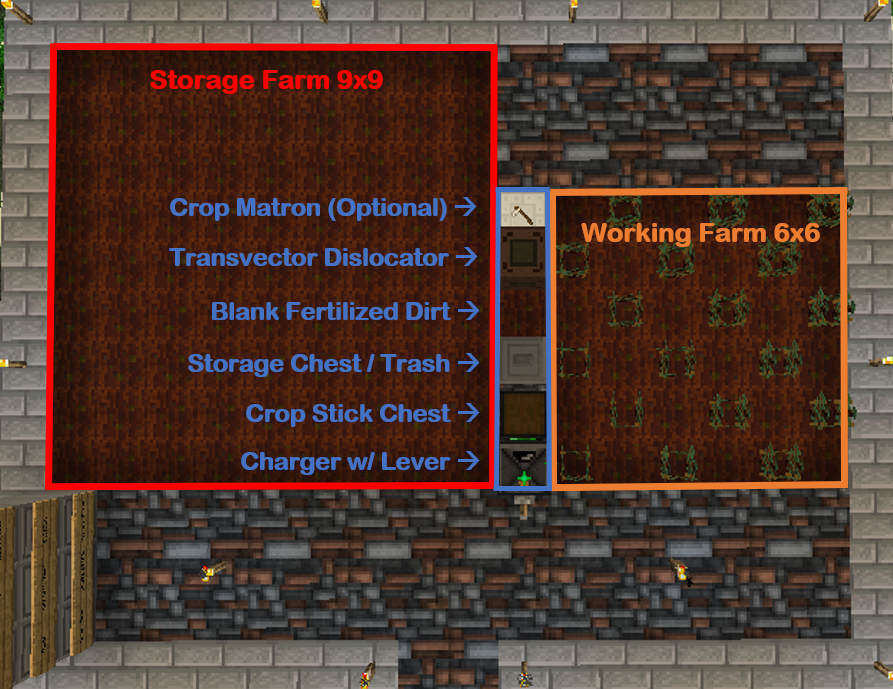
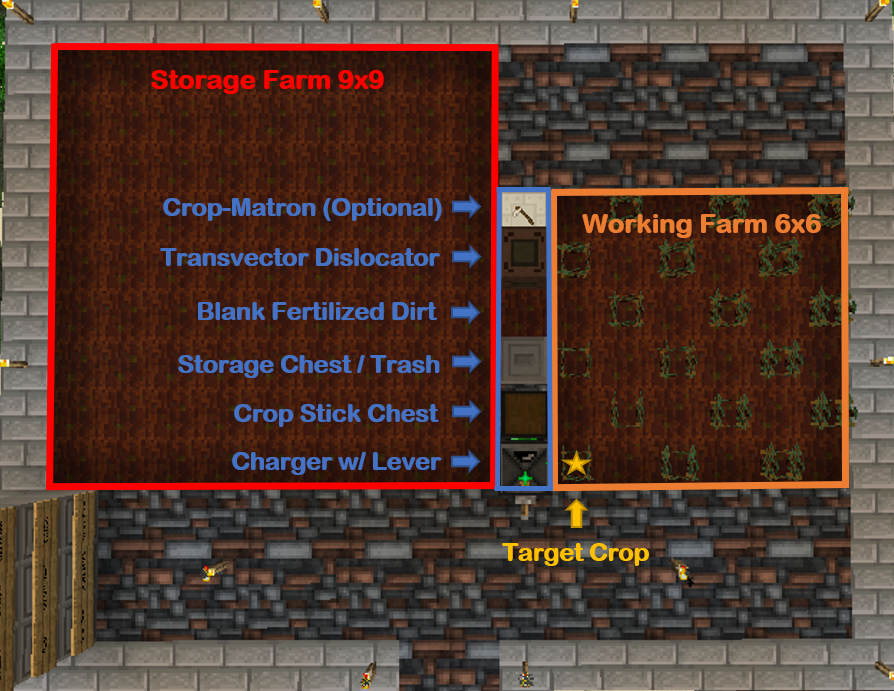
Commit

diff --git a/README.md b/README.md
@@ -1,10 +1,10 @@
 # Introduction
 
-This Open computers (OC) Script will automatically tier up, stat up, and spread (duplicate) crops for you. Open Computers is a very powerful yet complicated mod using custom scripts written in lua, but fear not. I have made everything here as straight forward as possible to help you get your crop bot running in no time.
+This Open computers (OC) Script will automatically tier up, stat up, and spread (duplicate) crops for you. Open Computers is a very powerful yet complicated mod using custom scripts written in lua, but fear not. I have made everything here as straight forward as possible to help you get your crop bot running in no time. (NOTE: The Geolyzer was broken upon the release of version 2.1.2.1, this script will not work until switching to a older or more recent version)
 
 # Bare Minimum Components
 
-Obtaining these components will require access to EV circuits and epoxid. This is because you need an internet card to pull the scripts from GitHub. Do not waste time trying to write it all yourself. The CPU and Graphics Card can be replaced by a single APU if you feel so inclined. Both inventory upgrades are necessary.
+Obtaining these components will require access to EV circuits and epoxid (late HV). This is because you need an internet card to pull the scripts from GitHub. Do not waste time trying to write it all yourself. The CPU and Graphics Card can be replaced by a single APU if you feel so inclined. Both inventory upgrades are necessary.
 
 - OC Electronics Assembler
 - OC Charger
@@ -23,6 +23,8 @@ Obtaining these components will require access to EV circuits and epoxid. This i
 - Disk Drive
 - Internet Card
 - OpenOS (Operating System)
+
+You will also need a Transvector Binder and Transvector Dislocator which requires some progression in Thaumcraft. However, it is not too deep and completely doable if you are already able to make EV circuits and epoxid. Transvector Dislocator can be found under "Thaumic Tinkerer" and requires the following prerequisites on the same tab: Transvector Interface and Smokey Quartz. You will also need to complete research on Mirror Magic under "Artifice." For more information, visit the Thaumcraft Research Cheatsheet at https://gtnh.miraheze.org/wiki/Thaumcraft_Research_Cheatsheet.
 
 # Building the Robot
 
@@ -55,13 +57,13 @@ First off, it is recommended to set everything up in a Jungle or Swamp biome at 
 
 ![setup for crossbreeding](media/Farm_Layout.png)
 
-First note the orientation of the robot sitting atop the OC charger. It must face up towards the crop stick chest. If the crop stick chest is ever empty, the robot will run into errors and the script will break. In the image, I have a trash can on the other side of the crop stick chest because I currently do not want any drops beyond the target crop, but this can be replaced with another chest if need be. The blank fertilized dirt is for the transvector dislocator which should be facing it. You can tell which direction the transvector dislocator is facing by the side that is animated. The last spot is for a crop-matron which is optional and one y-level lower than the rest of the blocks. It is just to hydrate most of the crops so everything runs a little faster.
+First note the orientation of the robot sitting atop the OC charger. It must face up towards the crop stick chest. If the crop stick chest is ever empty, the robot will run into errors and the script will crash. In the image, I have a trash can on the other side of the crop stick chest because I do not want any drops beyond the target crop, but this can be replaced with another chest if need be. The blank fertilized dirt is for the transvector dislocator which should be facing it. You can tell which direction the transvector dislocator is facing by the side that is animated. The last spot is for a crop-matron which is optional and one y-level lower than the rest of the blocks. It is just to hydrate most of the crops so everything runs a little faster.
 
-The starting crops must be placed manually in the checkerboard pattern seen in the photo. This layout goes for all three programs. If you cannot fill the entire checkerboard to start, the absolute minimum required is two (one as the target crop and the other next to it for crossbreeding). Do not place empty crop sticks to fill the rest of the checkerboard. The target crop is used by autoStat and autoSpread to identify the crop you want to stat-up or spread to the storage farm.
+The starting crops must be placed manually in the checkerboard pattern seen in the photo. This layout goes for all three programs. If you cannot fill the entire checkerboard to start, the absolute minimum required is two (one as the target crop and the other next to it for crossbreeding). It is not necessary to place empty crop sticks to fill the rest of the checkerboard. The target crop is used by autoStat and autoSpread to identify the crop you want to stat-up or spread to the storage farm.
 
 # Running the Programs
 
-The first program is autoTier. This will automatically tier up your crops, terminating once the max breeding round is reached (configurable) or the storge farm is full. A storage chest is recommended for this program. Note that unrecognized crops will be moved to the storage farm first before replacing any of the lower tier crops in the working farm. Statting-up the crops before increasing to the next tier is an option in the config. To run, simply enter:
+The first program is autoTier. This will automatically tier up your crops, terminating once the max breeding round is reached (configurable) or the storge farm is full. A storage chest is recommended for this program. Note that unrecognized crops will be moved to the storage farm first before replacing any of the lower tier crops in the working farm. Statting-up crops before increasing to the next tier is an option in the config. To run, simply enter:
 
     autoTier
 
@@ -91,22 +93,21 @@ To uninstall all of the files from this repo, enter
 
     uninstall
 
-To run without cleanup for some reason, type ANYTHING after the program name
+To run without cleanup for some reason, type ANYTHING after the program name. If left alone, this will leave your entire working farm susceptible to weeds.
 
     autoSpread nocleanup
 
 ## Thanks
 
-I DID NOT WRITE MOST OF THE CODE. My repo is a fork from https://github.com/huchenlei/auto-crossbreeding/tree/improve_autocrossbreed which was originally authored by huchenlei and improved by xyqyear. Huge props to them for getting this off the ground and allowing me to take it further.
+I DID NOT WRITE THE ORIGINAL CODE. My repo is a fork from https://github.com/huchenlei/auto-crossbreeding/tree/improve_autocrossbreed which was originally authored by huchenlei and improved by xyqyear. Huge props to them for getting this off the ground and allowing me to take it further.
 
 ## Notable Changes
 
-If you are familiar with the older versions of this code (particularly what is currently uploaded to the GTNH wiki) then here are some notable changes that motivated me to develop this fork in the first place.
+If you are familiar with the older versions of this code then here are some notable changes that motivated me to develop this fork in the first place.
 
 - Location of the Chests/Dislocator/Crop-Matron now make slightly more sense in my opinion.
 - "docleanup" is no longer a flag that needs to be raised. It will do this automatically unless ANY argument is given.
-- Running cleanup no longer crashes the robot on any of the programs.
-- Running autoStat followed by autoSpread no longer crashes the robot.
+- If setup correctly, the robot should theoretically never crash
 - It is no longer necessary to break the robot after the storage farm is full in order to run autoSpread or autoTier again.
 - All of the programs run on the same farm layout to facilitate running autoSpread immediately after autoStat.
 - Additional functionality such as changing the threshold for autoSpread and autoStat directly from the config and whether or not to stat-up crops while running autoTier.
